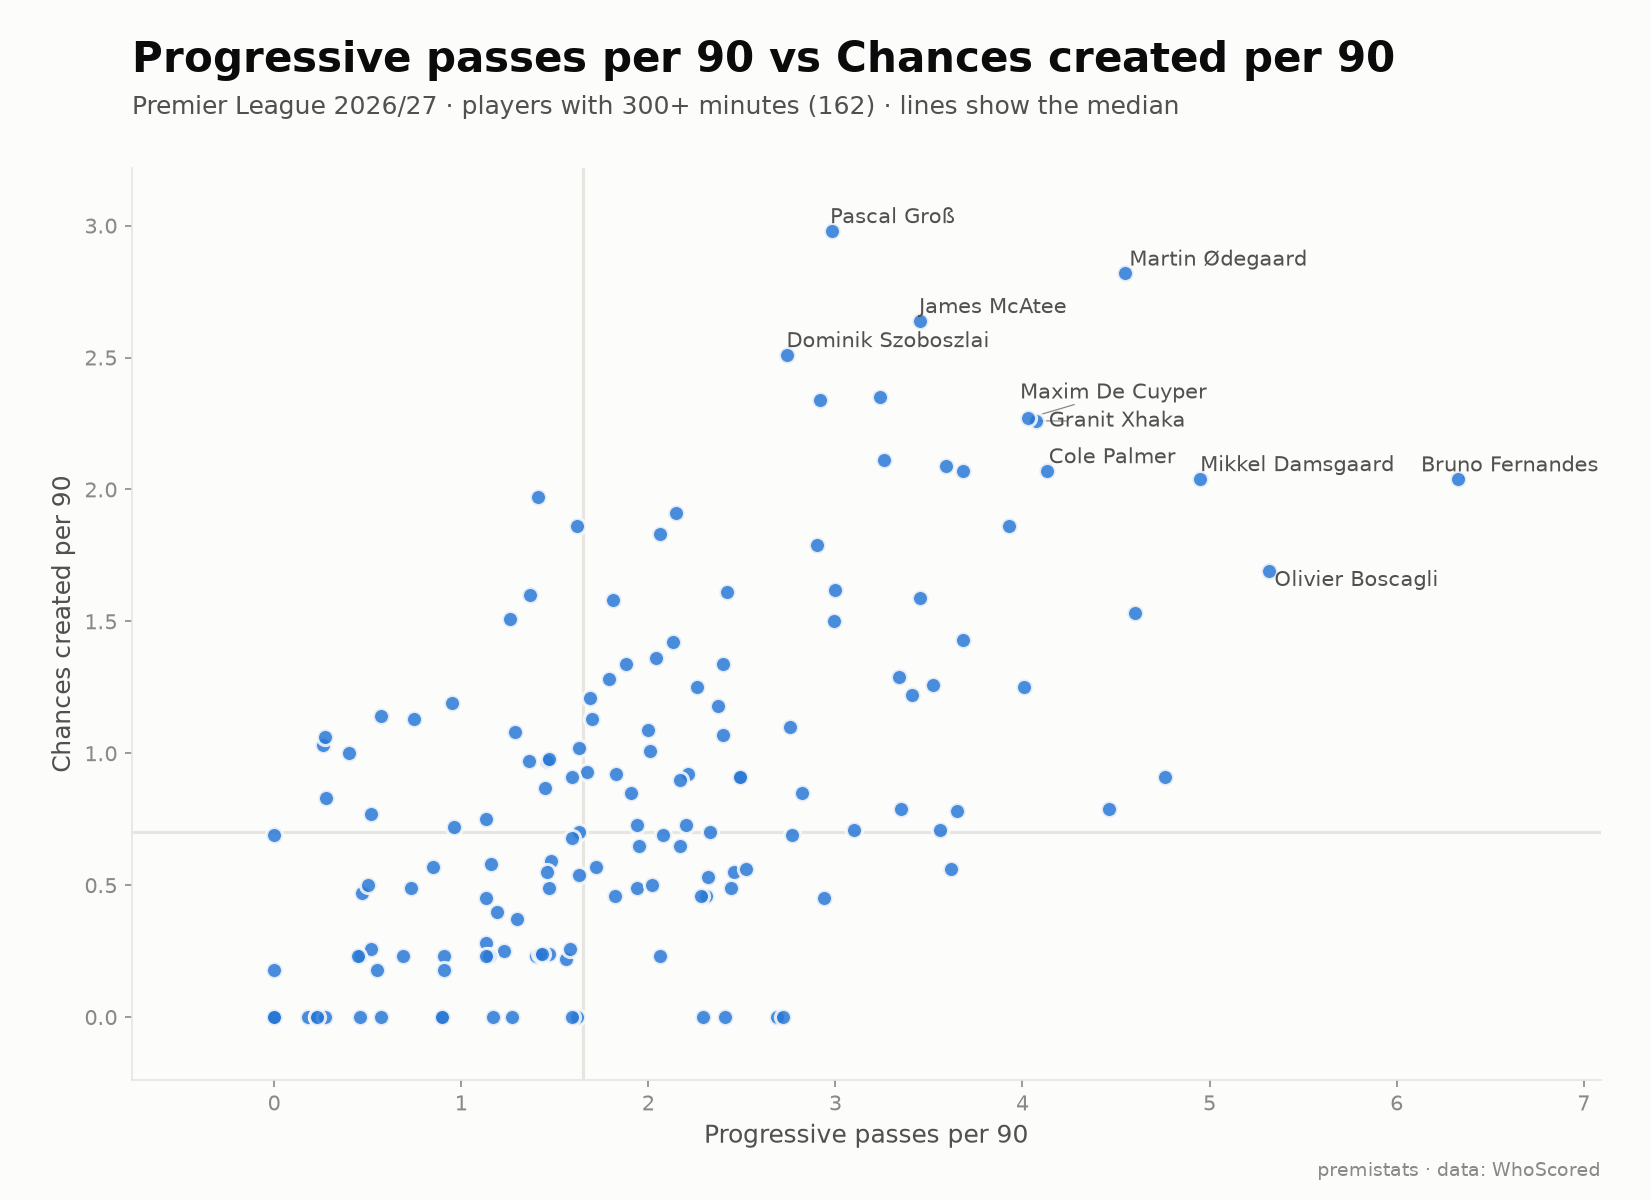
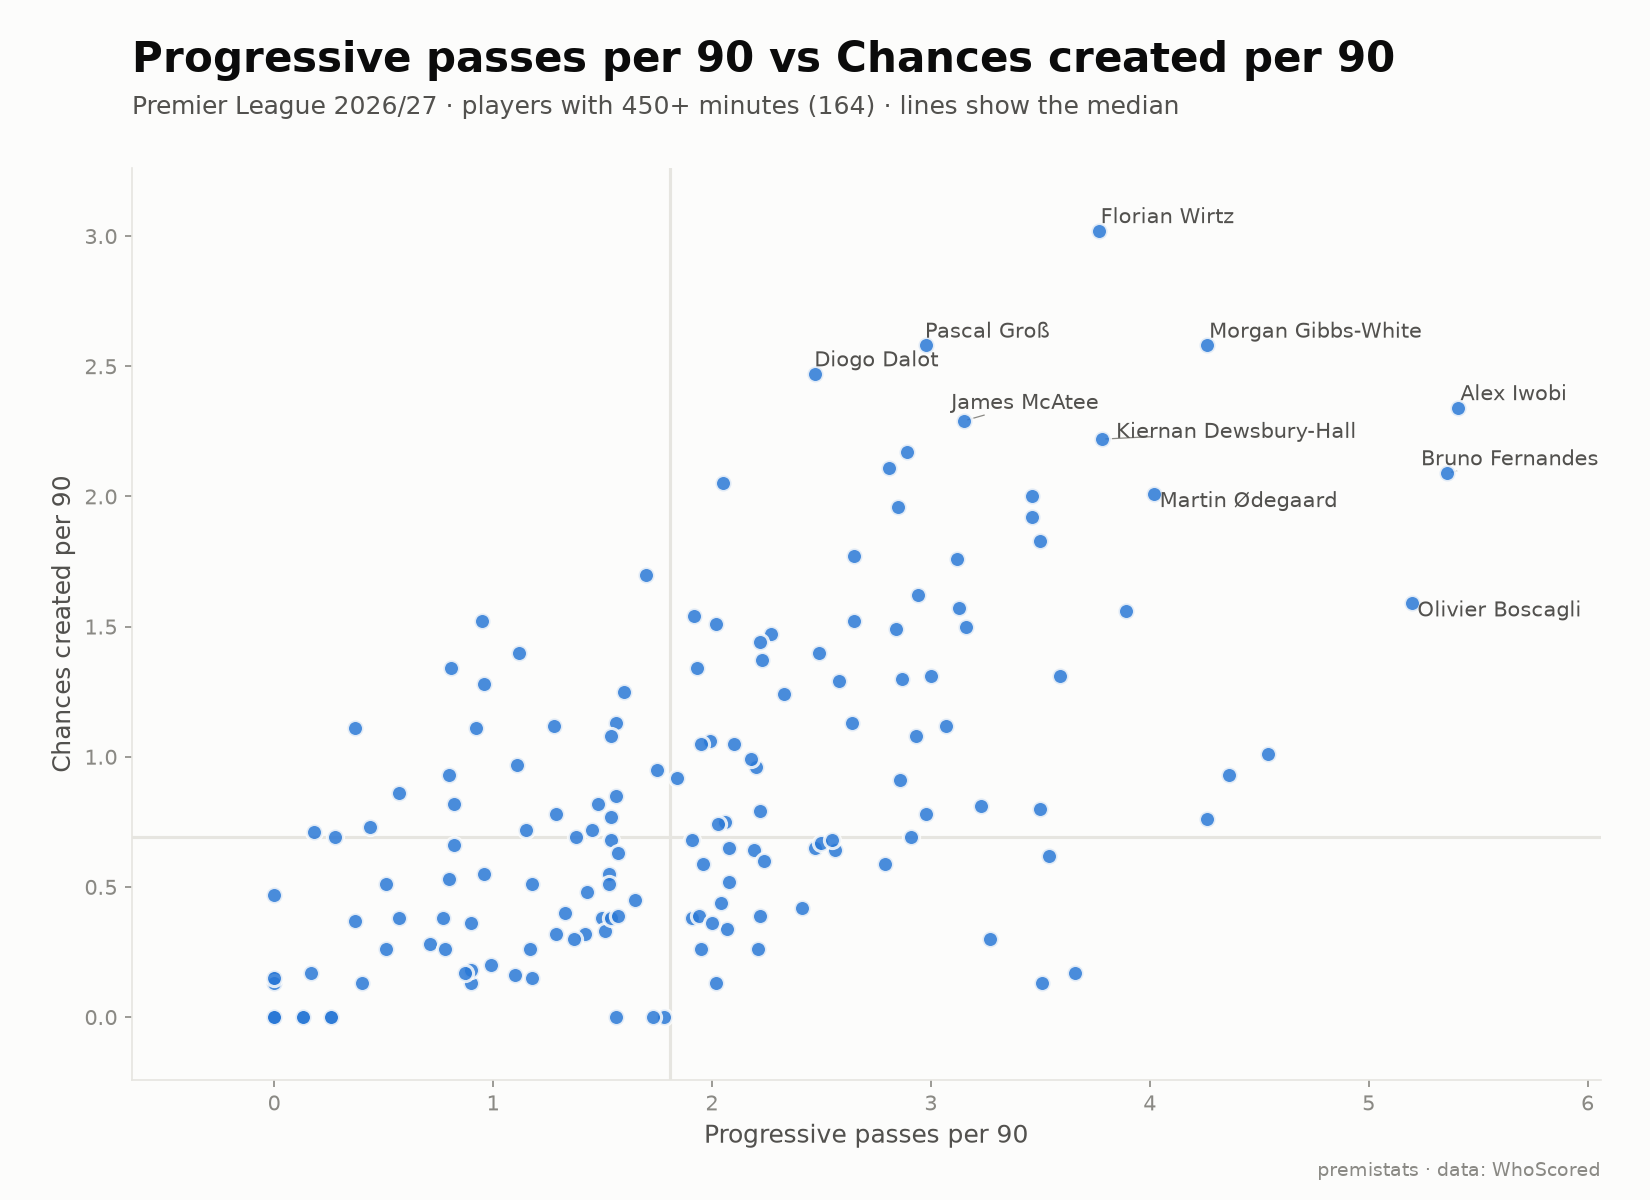
Add roadmap; rebuild with the full 69-match backfill

diff --git a/docs/ROADMAP.md b/docs/ROADMAP.md
@@ -1,0 +1,114 @@
+# premistats roadmap
+
+**Started:** Mon 19 Oct 2026
+**Website MVP (public beta):** Mon 14 Dec 2026
+**Full release (v1.0):** Sun 31 Jan 2027
+
+Estimates assume roughly **10–15 hours a week**. Each phase includes a few days' slack, because scraped sources can break without warning (decision 003).
+
+---
+
+## Timeline
+
+| Phase | Dates | Goal | Status |
+|---|---|---|---|
+| 1. Foundations & pipeline | 19 Oct | Data in, cleaned, tested | ✅ Done |
+| 2. xG model | 20 Oct – 1 Nov | Our own xG, trained and evaluated | ⏳ Next |
+| 3. Match & team analytics | 2 Nov – 15 Nov | Match pages' data, team style, export layer | |
+| 4. Website MVP | 16 Nov – 13 Dec | Live site with the core visuals | |
+| 🚀 **Public beta** | **14 Dec** | Shareable before the busy Christmas fixtures | |
+| 5. Advanced metrics | 15 Dec – 10 Jan | xT, radars, comparisons | |
+| 6. Past season + polish | 11 Jan – 31 Jan | 2025/26 archive, write-ups, performance | |
+| 🏁 **Full release v1.0** | **31 Jan** | Complete, documented, on your CV | |
+
+---
+
+## Phase 1: Foundations & pipeline ✅ (19 Oct 2026)
+
+- [x] Project plan agreed: free site, PL 2026/27, £0 hosting
+- [x] Tools installed: Python 3.12, Node 24, Git, Chrome, VS Code Python extension
+- [x] Git repo with your name on the commits (7 commits on day one)
+- [x] Found that 2025/26 has finished and switched the target to **2026/27** (2025/26 becomes the first archive season)
+- [x] Source adapter pattern: swappable plug-ins for Understat (shots/xG) and WhoScored (full event data)
+- [x] Raw layer: one compressed, never-overwritten file per match (1.2 MB → 96 KB)
+- [x] `pipeline.ingest`: fetches only new matches and carries on past failures
+- [x] Fixed a 10× slowdown in the WhoScored fetch (107 s → 10 s per match)
+- [x] Backfilled all 69 played matches from both sources: 105,906 events, 1,904 shots, 0 failures
+- [x] Bronze layer: 4 Parquet tables with pandera validation (caught 0 cm heights and duplicate event IDs)
+- [x] dbt silver/gold models: minutes (with stoppage time and red cards), 28 stats + per 90
+- [x] 21 automated data tests, including "goals reconcile with final scores"
+- [x] `pipeline.run`: the whole refresh in one command
+- [x] Prototype charts: shot map, touch map + zone heatmap, X/Y scatter
+- [x] Docs: README, 16 entries in `decisions.md`, `metrics.md`, this roadmap
+
+## Phase 2: xG model (20 Oct – 1 Nov)
+
+- [ ] Download StatsBomb open data (free, licensed for this use)
+- [ ] Feature engineering: distance, angle, body part, situation, big chance, etc.
+- [ ] Train a baseline logistic regression, then a gradient-boosted model
+- [ ] Evaluate: log-loss, Brier score, calibration plot, feature importance
+- [ ] Apply to WhoScored shots → our xG for every PL 2026/27 shot
+- [ ] Compare against Understat's xG (correlation, team season totals)
+- [ ] Add xG / npxG / xA columns to `player_season_stats`
+- [ ] Link players across WhoScored and Understat (names differ, e.g. accents)
+- [ ] ✍ **You write:** "Building an xG model from scratch" (write-up #1)
+
+## Phase 3: Match & team analytics (2 Nov – 15 Nov)
+
+- [ ] `match_stats` and `team_match_stats` gold tables
+- [ ] xG timeline ("xG race") data per match
+- [ ] Pass networks: average positions + pass counts between players
+- [ ] Team style: PPDA (pressing), field tilt, defensive line height
+- [ ] Season-level smoothed heatmaps (enough touches for density to be meaningful)
+- [ ] Export layer: gold tables → small Parquet/JSON files for the website
+- [ ] Weekly scheduled refresh with Windows Task Scheduler
+- [ ] Data-freshness and test-results summary (for a "data quality" page)
+- [ ] Spot-check 5 players' goals, shots and minutes against the official PL site
+
+## Phase 4: Website MVP (16 Nov – 13 Dec)
+
+- [ ] Accounts: GitHub (push the repo) and Vercel
+- [ ] Next.js + TypeScript + Tailwind project in `web/`, deployed to `premistats.vercel.app`
+- [ ] Shared chart style (colour palette, light/dark mode) matching the prototypes
+- [ ] Player pages: season stats, per 90, shot map, touch map/heatmap
+- [ ] Team pages: results, team style metrics, top players
+- [ ] Match pages: score, xG race, shot map, pass networks
+- [ ] **X/Y chart builder**: any two stats, minutes/position/team filters, highlighted players
+- [ ] DuckDB-WASM so the chart builder queries data in the browser (no server)
+- [ ] PNG export with premistats watermark; shareable links that keep chart settings
+- [ ] Mobile layout, fast loading (Lighthouse ≥ 85), Open Graph preview images
+- [ ] About page: data sources, attribution, metric definitions, AI-assisted build statement
+- [ ] Privacy-friendly analytics (Vercel Analytics)
+
+## 🚀 Public beta (Mon 14 Dec)
+
+- [ ] Post on r/FantasyPL and football-analytics X/Bluesky with a watermarked chart
+- [ ] Start a weekly "chart of the matchweek" post
+- [ ] Collect feedback (simple form or GitHub issues)
+
+## Phase 5: Advanced metrics (15 Dec – 10 Jan)
+
+- [ ] Expected threat (xT) model and per-player xT from passes
+- [ ] Progressive carries (inferred from the gaps between events)
+- [ ] Percentile ranks by position; radar / pizza charts
+- [ ] Player comparison page (two or three players side by side)
+- [ ] ✍ **You write:** analysis piece #2 (e.g. "Who is underrated by xT?")
+
+## Phase 6: Past season + polish (11 Jan – 31 Jan)
+
+- [ ] Backfill 2025/26 (all 380 matches) and add a season switcher on the site
+- [ ] GitHub Actions CI: lint, dbt tests on sample data, site build; badges in the README
+- [ ] Performance and accessibility pass; fix beta feedback
+- [ ] README as a case study: architecture diagram, lineage, lessons learned
+- [ ] ✍ **You write:** write-up #3 + a LinkedIn post announcing v1.0
+- [ ] Add the live URL and GitHub link to your CV
+
+## 🏁 Full release v1.0 (Sun 31 Jan 2027)
+
+---
+
+### Later (after v1.0)
+- Custom domain (premistats.com / .co.uk, about £10 a year)
+- Other leagues (the pipeline is already per-league)
+- Mobile app
+- Possession value model (VAEP) using the event data
